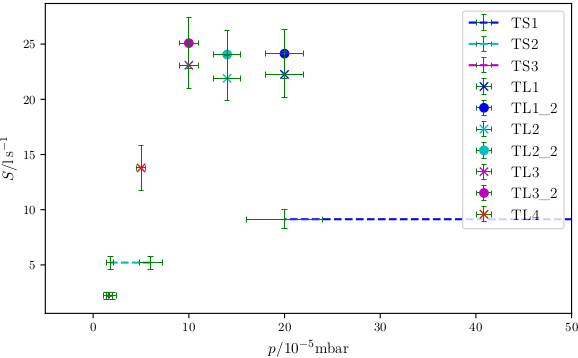
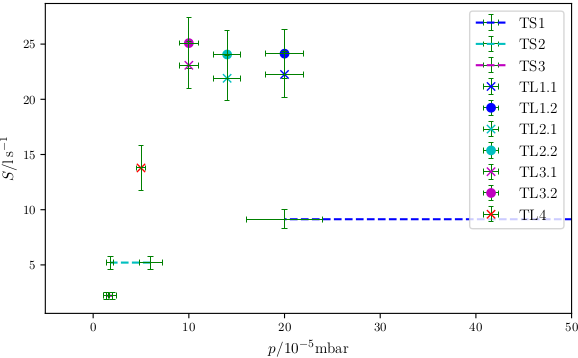
old

Changed region(s): [[0.8097, 0.0307, 0.9654, 0.6145]]

diff --git a/FP-V70/scripts/mainscriptw.py b/FP-V70/scripts/mainscriptw.py
@@ -605,12 +605,12 @@ plt.errorbar([noms(pTS)[0],noms(pTS)[3]], [noms(STS1),noms(STS1)], xerr=[stds(pT
 plt.errorbar([noms(pTS)[4],noms(pTS)[7]], [noms(STS2),noms(STS2)], xerr=[stds(pTS)[4],stds(pTS)[7]], yerr=[stds(STS2),stds(STS2)], fmt='c--', markersize=6, elinewidth=0.5, capsize=2, capthick=0.5, ecolor='g',barsabove=True ,label='TS2')
 plt.errorbar([noms(pTS)[6],noms(pTS)[9]], [noms(STS3),noms(STS3)], xerr=[stds(pTS)[6],stds(pTS)[9]], yerr=[stds(STS3),stds(STS3)], fmt='m--', markersize=6, elinewidth=0.5, capsize=2, capthick=0.5, ecolor='g',barsabove=True ,label='TS3')
 
-plt.errorbar(noms(pTL1)[0]*10, noms(STL1), xerr=stds(pTL1)[0]*10, yerr=stds(STL1), fmt='bx', markersize=6, elinewidth=0.5, capsize=2, capthick=0.5, ecolor='g',barsabove=True ,label='TL1')
-plt.errorbar(noms(pTL1)[0]*10, noms(STL1_2), xerr=stds(pTL1)[0]*10, yerr=stds(STL1_2), fmt='bo', markersize=6, elinewidth=0.5, capsize=2, capthick=0.5, ecolor='g',barsabove=True ,label='TL1_2')
-plt.errorbar(noms(pTL2)[0]*10, noms(STL2), xerr=stds(pTL2)[0]*10, yerr=stds(STL2), fmt='cx', markersize=6, elinewidth=0.5, capsize=2, capthick=0.5, ecolor='g',barsabove=True ,label='TL2')
-plt.errorbar(noms(pTL2)[0]*10, noms(STL2_2), xerr=stds(pTL2)[0]*10, yerr=stds(STL2_2), fmt='co', markersize=6, elinewidth=0.5, capsize=2, capthick=0.5, ecolor='g',barsabove=True ,label='TL2_2')
-plt.errorbar(noms(pTL3)[0]*10, noms(STL3), xerr=stds(pTL3)[0]*10, yerr=stds(STL3), fmt='mx', markersize=6, elinewidth=0.5, capsize=2, capthick=0.5, ecolor='g',barsabove=True ,label='TL3')
-plt.errorbar(noms(pTL3)[0]*10, noms(STL3_2), xerr=stds(pTL3)[0]*10, yerr=stds(STL3_2), fmt='mo', markersize=6, elinewidth=0.5, capsize=2, capthick=0.5, ecolor='g',barsabove=True ,label='TL3_2')
+plt.errorbar(noms(pTL1)[0]*10, noms(STL1), xerr=stds(pTL1)[0]*10, yerr=stds(STL1), fmt='bx', markersize=6, elinewidth=0.5, capsize=2, capthick=0.5, ecolor='g',barsabove=True ,label='TL1.1')
+plt.errorbar(noms(pTL1)[0]*10, noms(STL1_2), xerr=stds(pTL1)[0]*10, yerr=stds(STL1_2), fmt='bo', markersize=6, elinewidth=0.5, capsize=2, capthick=0.5, ecolor='g',barsabove=True ,label='TL1.2')
+plt.errorbar(noms(pTL2)[0]*10, noms(STL2), xerr=stds(pTL2)[0]*10, yerr=stds(STL2), fmt='cx', markersize=6, elinewidth=0.5, capsize=2, capthick=0.5, ecolor='g',barsabove=True ,label='TL2.1')
+plt.errorbar(noms(pTL2)[0]*10, noms(STL2_2), xerr=stds(pTL2)[0]*10, yerr=stds(STL2_2), fmt='co', markersize=6, elinewidth=0.5, capsize=2, capthick=0.5, ecolor='g',barsabove=True ,label='TL2.2')
+plt.errorbar(noms(pTL3)[0]*10, noms(STL3), xerr=stds(pTL3)[0]*10, yerr=stds(STL3), fmt='mx', markersize=6, elinewidth=0.5, capsize=2, capthick=0.5, ecolor='g',barsabove=True ,label='TL3.1')
+plt.errorbar(noms(pTL3)[0]*10, noms(STL3_2), xerr=stds(pTL3)[0]*10, yerr=stds(STL3_2), fmt='mo', markersize=6, elinewidth=0.5, capsize=2, capthick=0.5, ecolor='g',barsabove=True ,label='TL3.2')
 plt.errorbar(noms(pTL4)[0]*10, noms(STL4), xerr=stds(pTL4)[0]*10, yerr=stds(STL1), fmt='rx', markersize=6, elinewidth=0.5, capsize=2, capthick=0.5, ecolor='g',barsabove=True ,label='TL4')
 #plt.errorbar(noms(pTS)[0], noms(STS1), xerr=stds(pTS)[0], yerr=stds(STS1), fmt='ro', markersize=6, elinewidth=0.5, capsize=2, capthick=0.5, ecolor='g',barsabove=True ,label='TS1')
 #plt.errorbar(noms(pTS)[3], noms(STS2), xerr=stds(pTS)[3], yerr=stds(STS2), fmt='co', markersize=6, elinewidth=0.5, capsize=2, capthick=0.5, ecolor='g',barsabove=True ,label='TS2')
